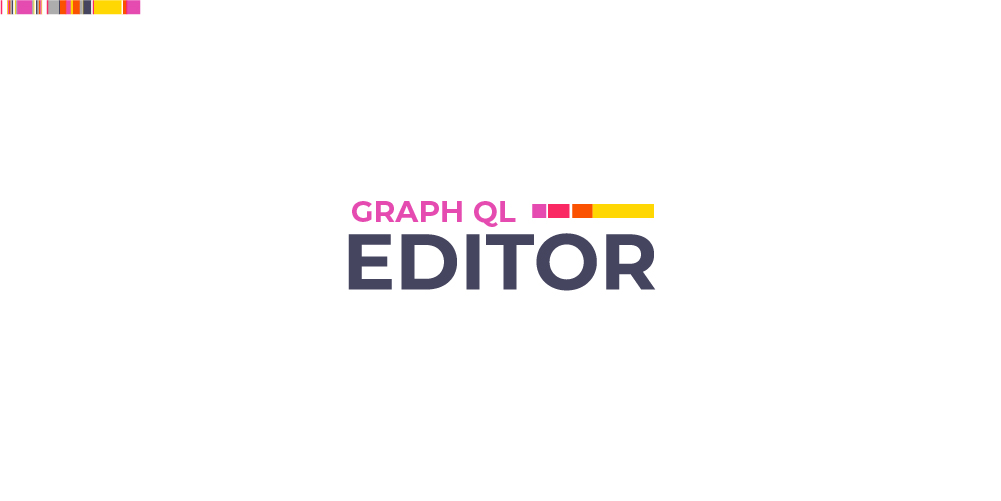
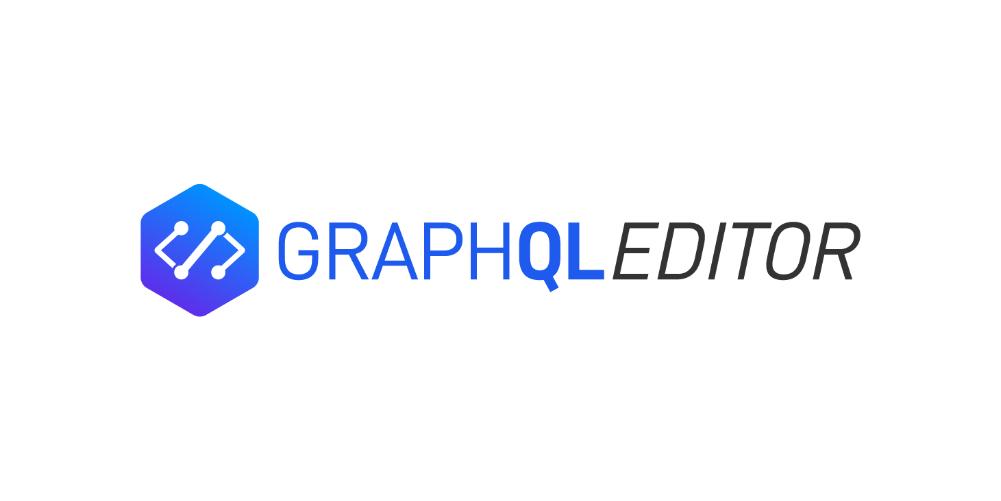
corrected og:image

Changed region(s): [[0.1239, 0.3593, 0.8671, 0.6287], [0.0, 0.0, 0.1548, 0.0299]]

diff --git a/src/components/Seo.js b/src/components/Seo.js
@@ -1,6 +1,7 @@
 import * as React from 'react';
 import { Helmet } from 'react-helmet';
-export const Seo = ({ title, description, url, lang = 'en', image, absouluteImage, twitter = '@GraphQLEditor' }) => (
+const fakeOrigin = 'http://blog.graphqleditor.com';
+export const Seo = ({ title, description, url, lang = 'en', absouluteImage, twitter = '@GraphQLEditor' }) => (
   <Helmet
     htmlAttributes={{
       lang,
@@ -17,14 +18,14 @@ export const Seo = ({ title, description, url, lang = 'en', image, absouluteImag
     <meta property="og:url" content={url} />
     <meta property="og:title" content={title} />
     <meta property="og:description" content={description} />
-    <meta property="og:image" content={image} />
+    <meta property="og:image" content={absouluteImage || `${fakeOrigin}${require('../assets/graphql-header.jpg')}`} />
     <meta property="og:type" content="website" />
     <meta property="og:locale" content="en_US" />
 
     <meta name="twitter:title" content={title} />
     <meta name="twitter:site" content="@GraphQLEditor" />
     <meta name="twitter:card" content="summary_large_image" />
-    <meta name="twitter:image" content={absouluteImage} />
+    <meta name="twitter:image" content={absouluteImage || `${fakeOrigin}${require('../assets/graphql-header.jpg')}`} />
     <meta name="twitter:description" content={description} />
     <meta name="twitter:creator" content={twitter} />
   </Helmet>
